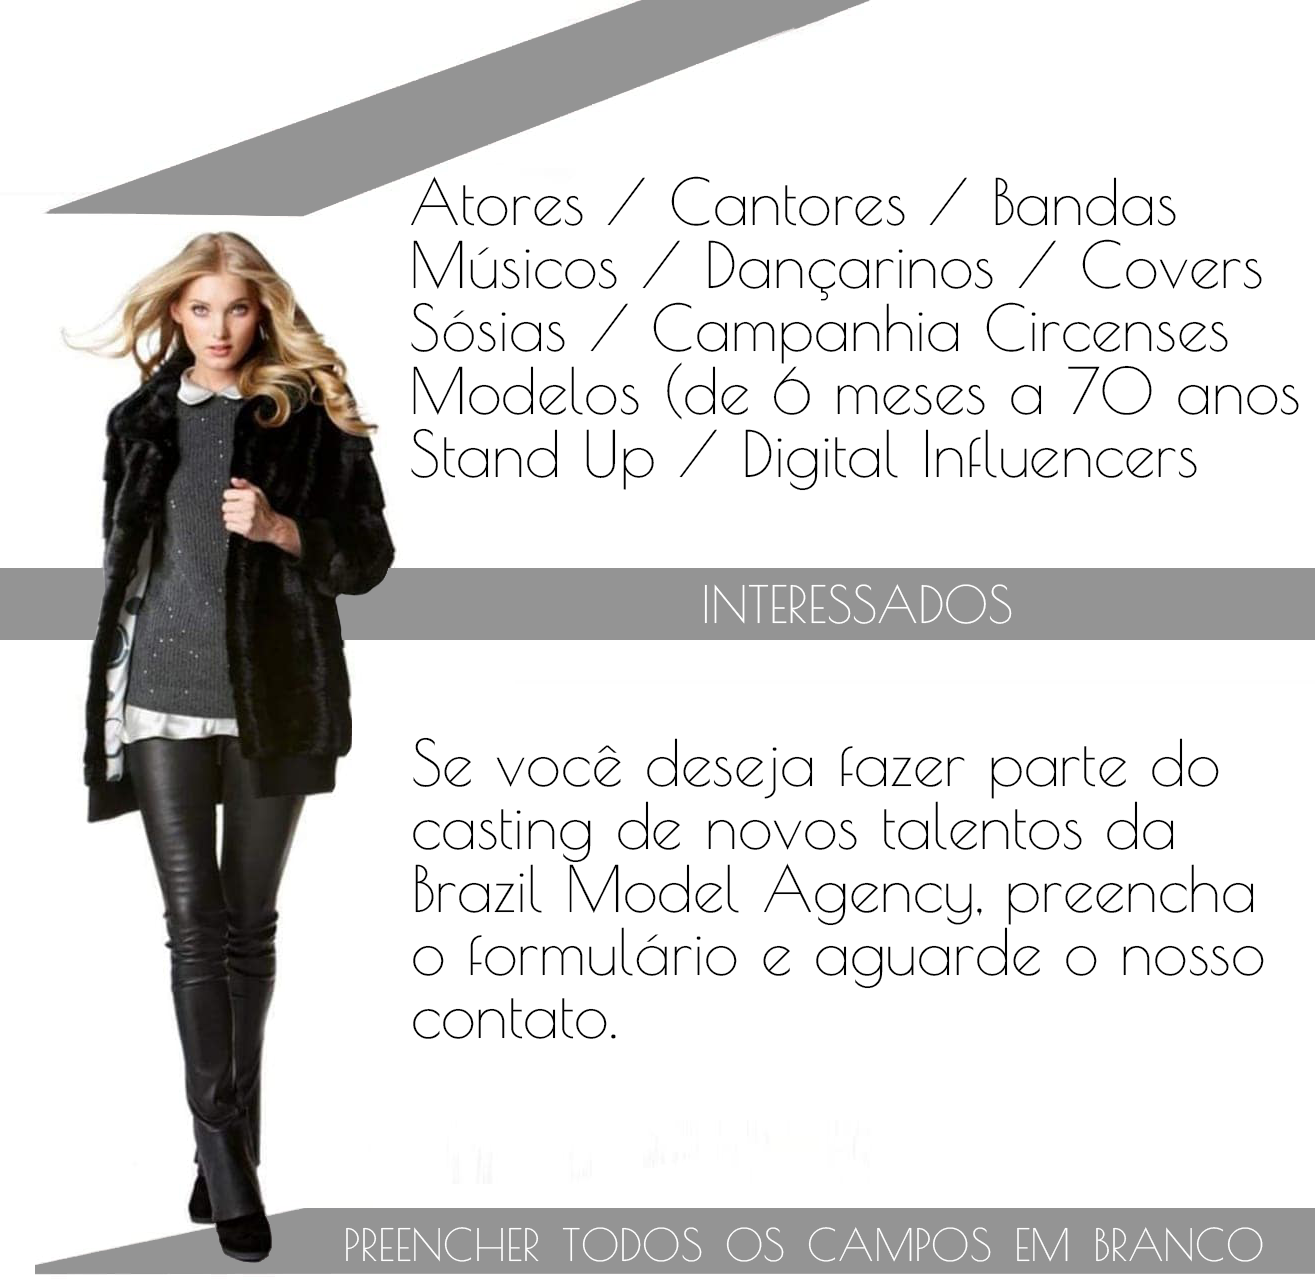
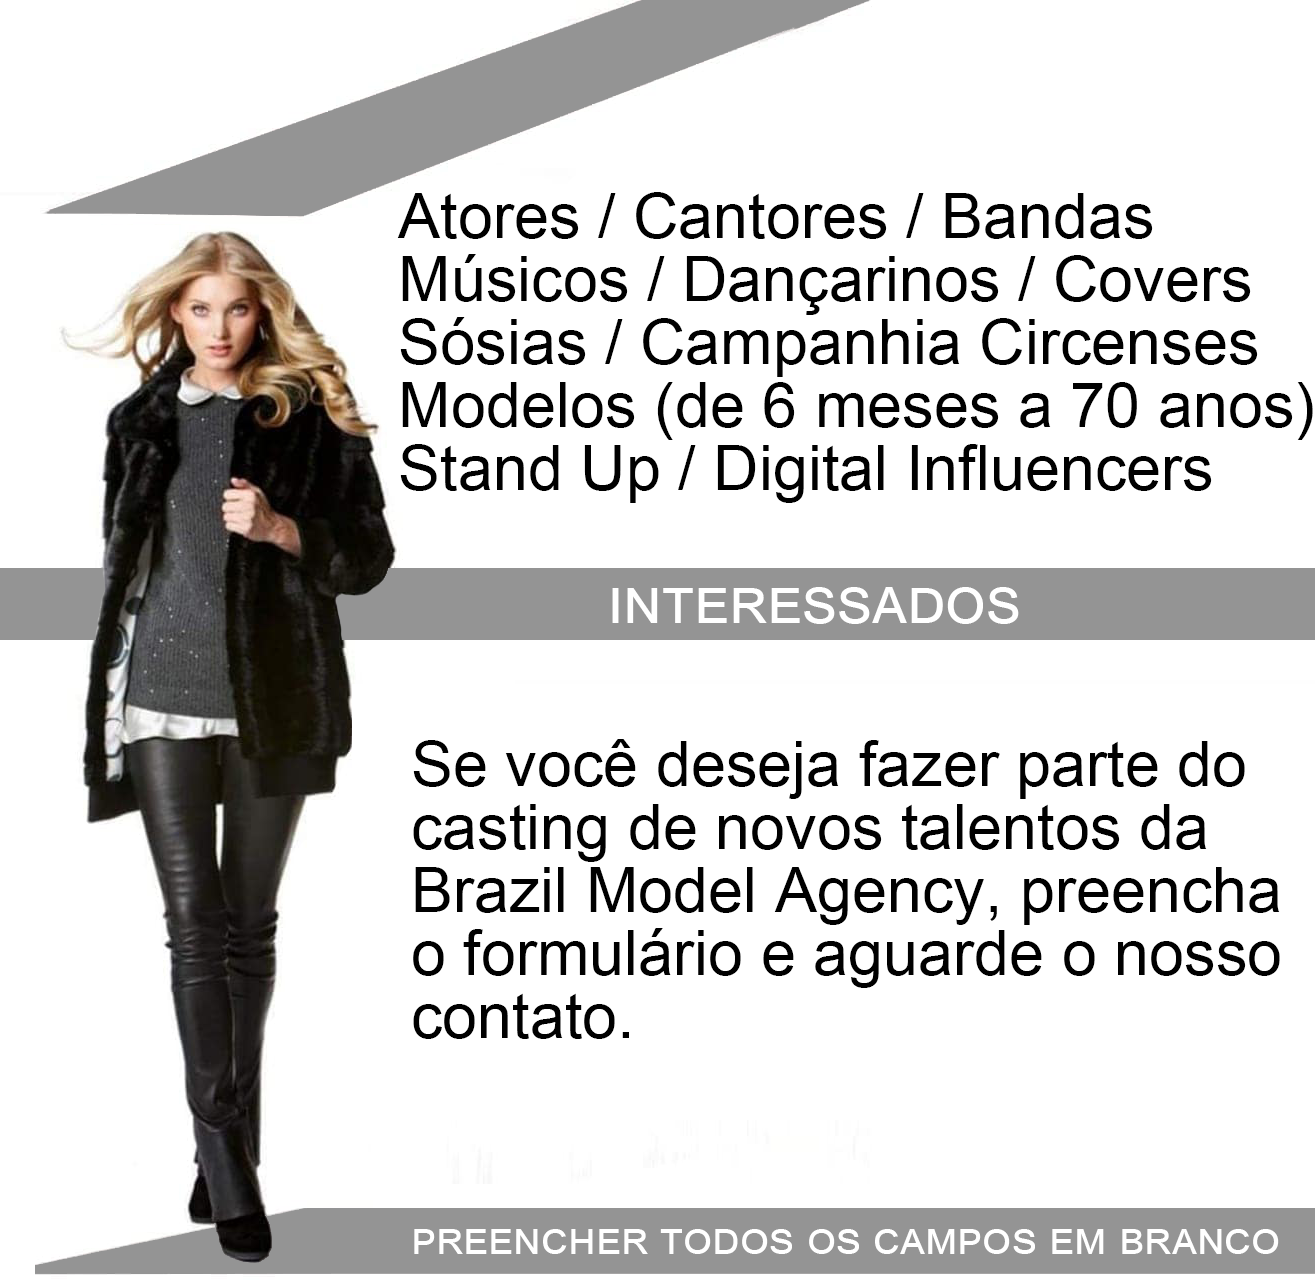
change font

diff --git a/css/rootStyle.css b/css/rootStyle.css
@@ -4,7 +4,7 @@
    ========================================================================== */
 /*! normalize.css v3.0.3 | MIT License | github.com/necolas/normalize.css */
 html {
-   font-family: 'Poiret One', cursive;
+   font-family: 'Arial, Helvetica, sans-serif';
   -ms-text-size-adjust: 100%;
   -webkit-text-size-adjust: 100%;
   
@@ -246,7 +246,7 @@ body {
   margin: 0;
   min-height: 100%;
   background-color: #fff;
- font-family: 'Poiret One', cursive;
+ font-family: 'Arial, Helvetica, sans-serif';
   font-size: 14px;
   line-height: 20px;
   color: #333;
@@ -539,7 +539,7 @@ button,html input[type="button"],input[type="reset"] {
 label {
   display: block;
   margin-bottom: 5px;
-  font-weight: bold;
+  font-size: 30px;
 }
 
 .w-input,.w-select {
@@ -1920,7 +1920,7 @@ textarea.w-input,textarea.w-select {
   margin-left: auto;
   margin-right: auto;
   border: none;
-  font-family: 'Poiret One', cursive !important;
+  font-family: 'Arial, Helvetica, sans-serif' !important;
 }
 .navbar-2 .nav-link-2{
 	border-top: solid 1px white;
@@ -2949,6 +2949,12 @@ h1{
   .show1, .show2{
     height: auto;
     width: auto;
+  }
+  label{
+    font-size: 20px;
+  }
+  input::placeholder{
+    font-size: 20px;
   }
 }
 

diff --git a/css/facaparte.css b/css/facaparte.css
@@ -50,7 +50,7 @@ input[type=text], input[type=number], input[type=password], input[type=email],in
         width: 100%;
     }
     form{
-        font-size: 30px;
+        font-size: 20px;
         line-height: normal;
         
     }
